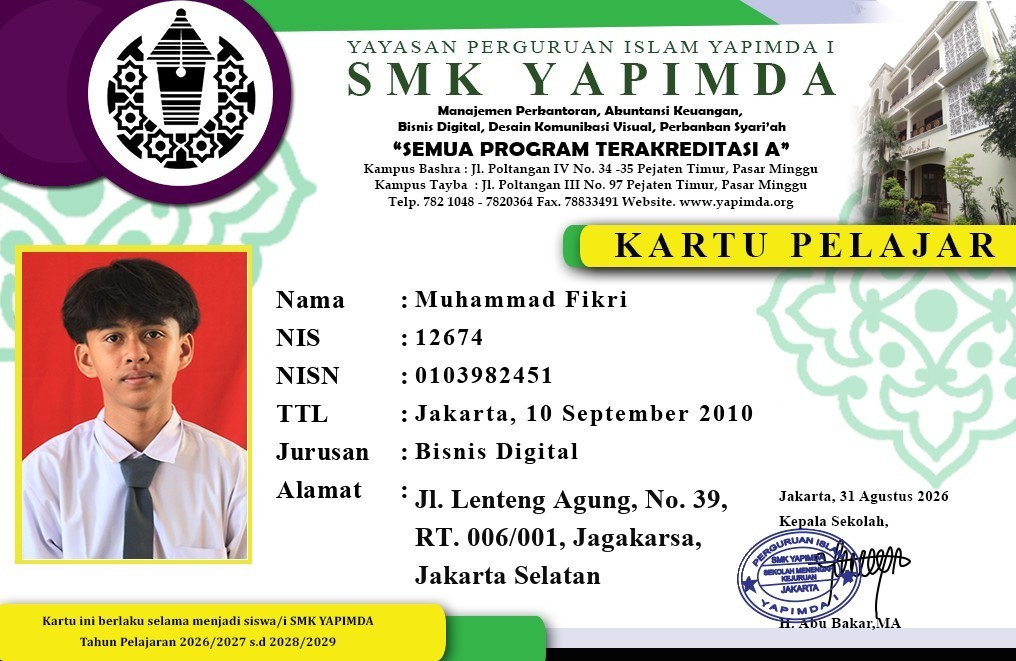
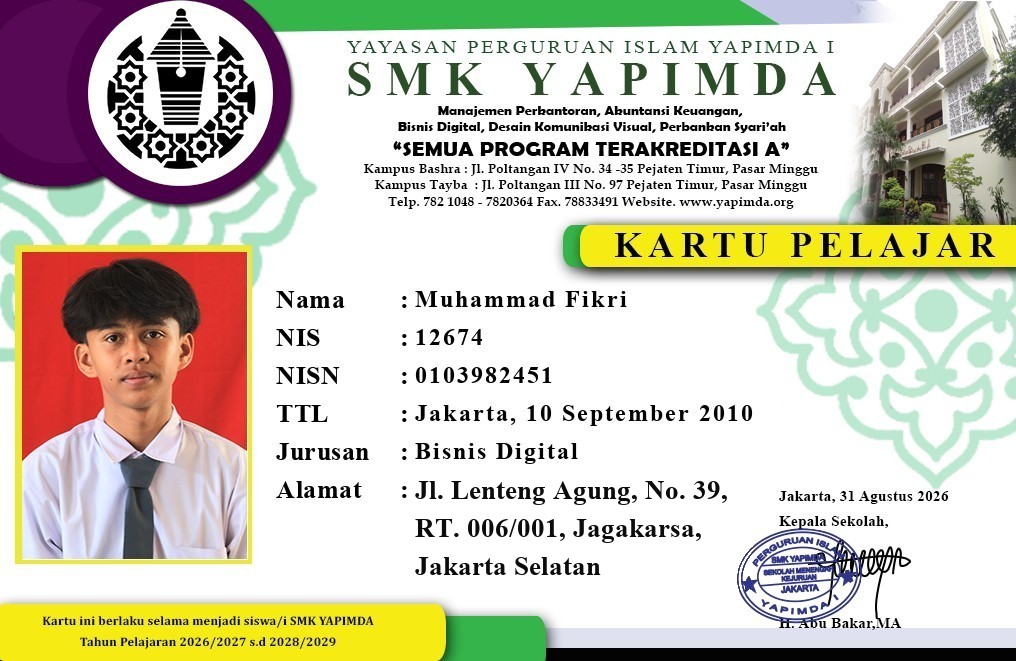
Sejajarkan value alamat Fikri ke baseline label (y474/512/550, ink top = label); format baku dilengkapi

Changed region(s): [[0.3967, 0.7262, 0.7323, 0.9077]]

diff --git a/FORMAT_KARTU.md b/FORMAT_KARTU.md
@@ -26,6 +26,9 @@ Hasil akhir yang disetujui user = seperti kartu acuan `cards/MP2/ahmad-luthfi.jp
   sekolah mulai `x737` (`y547-585`); pernah kepotong sampai `x752` dan
   menimbulkan blok putih menabrak stempel.
 - Kolom value: `x415` (ink mulai ~416, sejajar semua baris).
+- Start-baris value WAJIB samakan dengan start-baris label asli kartu tsb
+  (ukur bbox ink label dulu; cth Fikri: label `y481` -> value `y474/512/550`,
+  bukan asal `+7`). Patokannya hubungan label-value baris TTL desainer.
 - Contoh split alamat:
   - `Jl. Pejaten Timur, No. 24A,` / `RT. 010/007, Ps. Minggu,` / `Jakarta Selatan`
   - `Jl. Guru Muhyin, No. 99,` / `RT. 004/002, Jagakarsa,` / `Jakarta Selatan`
